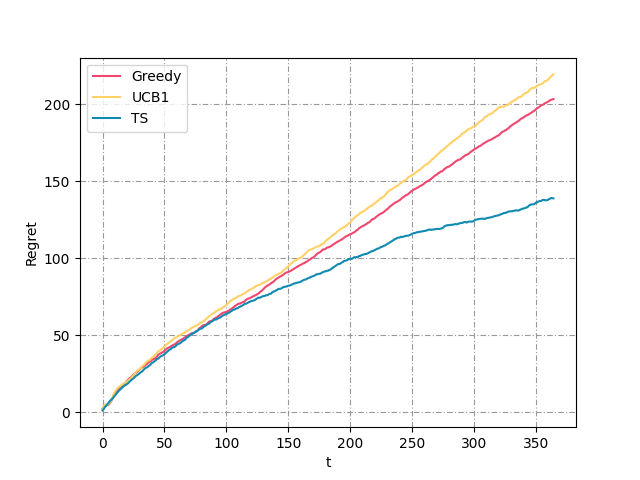
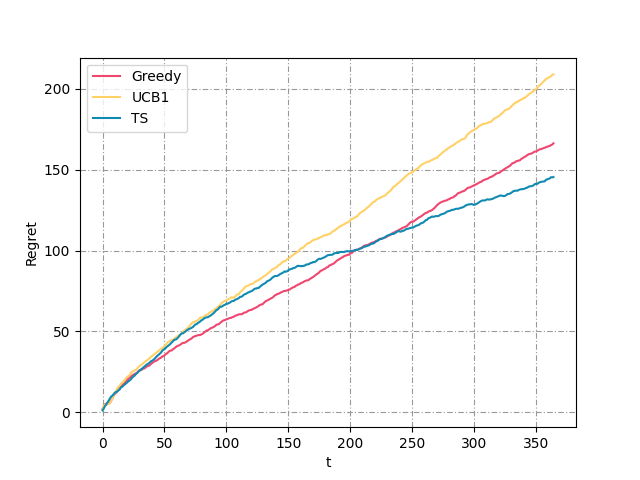
exp_5 funziona male

diff --git a/experiments/experiment_5.py b/experiments/experiment_5.py
@@ -14,27 +14,28 @@ class Experiment5():
 
         self.n_arms = 10
         self.bids = np.array(cm.bids)
-        self.sigma = 10
         self.prices = cm.prices
-        self.p = [.1, .03, .34, .28, .12, .19, .05, .56, .26, .35]# cm.aggr_conv_rates()
+        self.num_people = 100000*cm.class_distribution
+        self.p = cm.aggr_conv_rates()
         self.opt_pricing = np.max(np.multiply(self.p, self.prices)) 
-        self.means = cm.new_clicks(self.bids)
+        self.means = cm.aggregated_new_clicks_function_mean(self.bids, self.num_people)
+        self.sigmas = cm.aggregated_new_clicks_function_sigma(self.bids, self.num_people)
         self.opt = np.max(self.means * (self.opt_pricing - self.bids))
         self.T = 200
-        self.n_experiments = 10
+        self.n_experiments = 1
         self.gpts_reward_per_experiment = []
         self.p_arms = []
 
     def run(self):
         for e in tqdm(range(self.n_experiments)):
-            env = BiddingEvironment(self.bids, self.means, self.sigma, self.opt_pricing)
+            env = BiddingEvironment(self.bids, self.means, self.sigmas)
             gpts_learner = GPTS_learner_positive(n_arms=self.n_arms, arms=self.bids, threshold=0.2) 
             # qui metto anche bid perchè per implementare GP serve sapere le distanze tra i dati
 
             for t in range(self.T):
 
                 pulled_arm = gpts_learner.pull_arm()
-                reward = env.round(pulled_arm)
+                reward = env.round(pulled_arm, self.opt_pricing)
                 gpts_learner.update(pulled_arm, reward)
                 self.p_arms.append(pulled_arm)
 

diff --git a/configmanager.py b/configmanager.py
@@ -16,6 +16,7 @@ class ConfigManager():
         self.n_arms = len(self.prices)
 
         self.class_distribution = self.config['class_distribution']
+        self.new_clicks = self.config["new_clicks"]
         
         self.classes = self.get_classes()
         self.num_classes = len(self.classes)
@@ -41,8 +42,26 @@ class ConfigManager():
         beta = np.sqrt(bid)
         return bid * np.random.beta(alpha, beta, 1)
     
-    def new_clicks(self, bids):
-        return 100*(1.0-np.exp(-4*bids+3*bids**3))
+    #def new_clicks(self, bids):
+    #    return 100*(1.0-np.exp(-4*bids+3*bids**3))
+
+    def new_clicks_function_mean(self, bid, classe, num_people):
+        return (1-0.40/(2*bid))*num_people*self.new_clicks[classe]
+    
+    def aggregated_new_clicks_function_mean(self, bid, num_people):
+        v = 0
+        for i in range(4):
+            v += self.new_clicks_function_mean(bid, i, num_people[i])
+        return v
+
+    def new_clicks_function_sigma(self, bid, classe, num_people):
+        return (1-0.40/(2*bid))**2*num_people*self.new_clicks[classe]**2
+
+    def aggregated_new_clicks_function_sigma(self, bid, num_people):
+        v = 0
+        for i in range(4):
+            v += self.new_clicks_function_sigma(bid, i, num_people[i])
+        return v
     
     #------------------------------
     # AGGREGATED FUNCTIONS

diff --git a/main.py b/main.py
@@ -29,7 +29,7 @@ import logging
 
 parser = argparse.ArgumentParser(description='Expriments launcher')
 parser.add_argument('--experiment', '-e',  type=str,  default=3, help='experiment number')
-#sparser.add_argument('--logfile', '-lf',  type=bool,  action=argparse.BooleanOptionalAction, default=False, help='wheter to output in a logfile or not')
+parser.add_argument('--logfile', '-lf',  type=str, help='wheter to output in a logfile or not')
 parser.add_argument('--log', '-l',  type=int,  default=40, help='wheter to output in a logfile or not')
 args = parser.parse_args()
 
@@ -37,9 +37,11 @@ args = parser.parse_args()
 # LOGGER
 #------------------------------
 filename = None
-if args.logfile:
-    filename =  "./log.txt"
-logging.basicConfig(level=args.log, filename=filename)
+if args.logfile is not None:
+    filename = args.logfile
+    logging.basicConfig(level=args.log, filename=filename)
+else:
+    logging.basicConfig(level=args.log)
 logging.debug('Started')
 
 

diff --git a/environment.py b/environment.py
@@ -38,14 +38,12 @@ class SpecificEnvironment():
         return reward
 
 class BiddingEvironment():
+  def __init__(self, bids, means, sigmas):
+    self.bids = bids
+    self.means = means
+    self.sigmas = sigmas
 
-    def __init__(self, bids, means, sigma, opt_pricing):
-        self.bids = bids
-        self.means = means
-        self.sigmas = sigma*np.ones(len(bids))
-        self.opt_pricing = opt_pricing
-
-    def round(self, pulled_arm):    # pulled arm is the index of one of the bids
-        return np.random.normal(self.means[pulled_arm], self.sigmas[pulled_arm]) * (self.opt_pricing - self.bids[pulled_arm])
-        
+  def round(self, pulled_arm, value):    # pulled arm is the index of one of the bids
+    news = np.random.normal(self.means[pulled_arm], self.sigmas[pulled_arm])
+    return news*(value - self.bids[pulled_arm])
    

diff --git a/learners.py b/learners.py
@@ -166,7 +166,7 @@ class GPTS_learner_positive(Learner):
     def __init__(self, n_arms, arms, threshold):
         super().__init__(n_arms)
         self.arms = arms
-        self.means = np.zeros(n_arms)
+        self.means = np.ones(n_arms) #np.zeros(n_arms)
         self.sigmas = np.ones(n_arms)*10
         self.pulled_arms = []         # per avere il numero del round utilizzeremo len(pulled_arm)
         self.threshold = threshold
